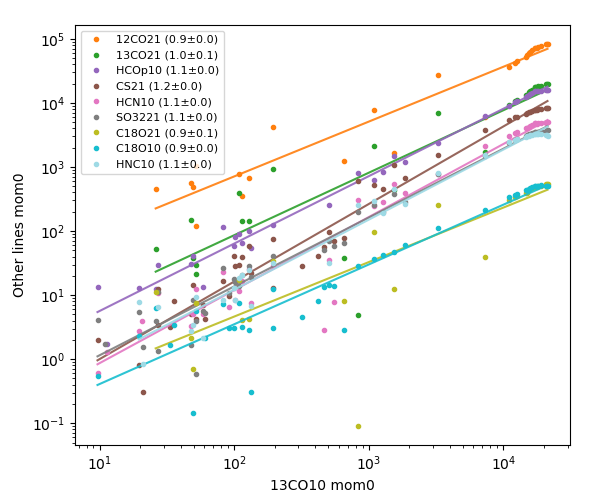
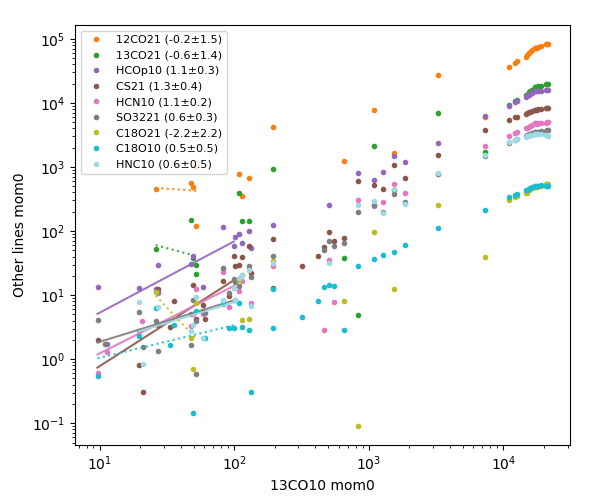
Exclude high 13CO peak outliers

diff --git a/analyze_dendro.py b/analyze_dendro.py
@@ -17,7 +17,8 @@ pl.ion()
 key_line = "13CO10"
 corr_line = "CS21"
 select_good_method = "error"
-snr_threshold = 2
+snr_threshold = 3
+max_key_peak = 100
 table_file = "allstats.ecsv"
 regression_file = f"linefit_logxy_{select_good_method}.ecsv"
 plot_dir = "analyze_dendro_plots"
@@ -282,6 +283,7 @@ def main():
                 np.isfinite(xvals)
                 & np.isfinite(yvals)
                 & (xvals > 0)
+                & (xvals <= max_key_peak)
                 & (yvals > 0)
             )
             all_xvals.append(xvals[finite_positive])
@@ -306,7 +308,13 @@ def main():
                 yerrs = stats[line]["linerms"] / np.sqrt(np.clip(2.35 * channel_fwhm * beam_count, 1e-12, np.inf))
                 peak_threshold = stats[line]["linerms"] / np.sqrt(np.clip(2.35 * np.nanmedian(momentsk[2, :]), 1e-12, np.inf))
 
-                finite_positive = np.isfinite(xvals) & np.isfinite(yvals) & (xvals > 0) & (yvals > 0)
+                finite_positive = (
+                    np.isfinite(xvals)
+                    & np.isfinite(yvals)
+                    & (xvals > 0)
+                    & (xvals <= max_key_peak)
+                    & (yvals > 0)
+                )
                 npts = int(np.sum(finite_positive))
                 if select_good_method == "peak_threshold":
                     high = finite_positive & (yvals > peak_threshold)
@@ -415,6 +423,7 @@ def main():
                 np.isfinite(xvals)
                 & np.isfinite(signal_to_noise)
                 & (xvals > 0)
+                & (xvals <= max_key_peak)
                 & (signal_to_noise > 0)
             )
             pl.plot(
@@ -445,7 +454,13 @@ def main():
                 xvals = stats[key_line]["moments"][0, :]
                 yvals = stats[line]["moments"][0, :]
 
-                good = np.isfinite(xvals) & np.isfinite(yvals) & (xvals > 0) & (yvals > 0)
+                good = (
+                    np.isfinite(xvals)
+                    & np.isfinite(yvals)
+                    & (xvals > 0)
+                    & (xvals <= max_key_peak)
+                    & (yvals > 0)
+                )
                 npts = int(np.sum(good))
                 slope = np.nan
                 offset = np.nan
